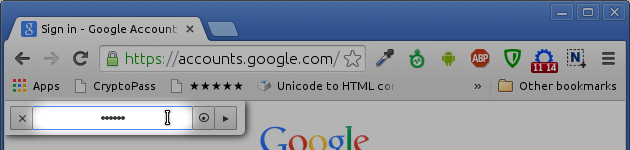
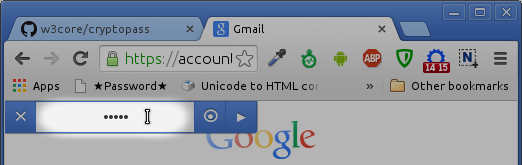
Images updated

diff --git a/README.md b/README.md
@@ -38,6 +38,9 @@ Usage
    (encrypted password will be inserted to the password field)
    ![Usage](https://rawgit.com/w3core/cryptopass/master/src/site/img/usage-step-3.png)
 
+Also you can see or copy your encrypted password if you need
+![Usage](https://rawgit.com/w3core/cryptopass/master/src/site/img/usage-view-password.png)
+
 Building (optional)
 -------------------
 1. Minify "src/script.js"
